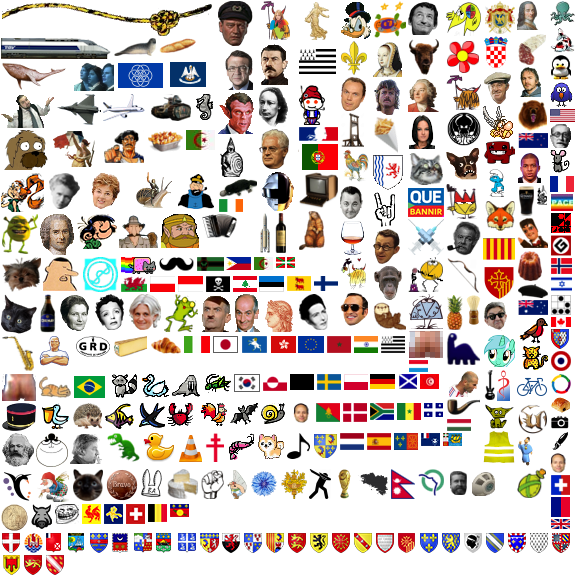
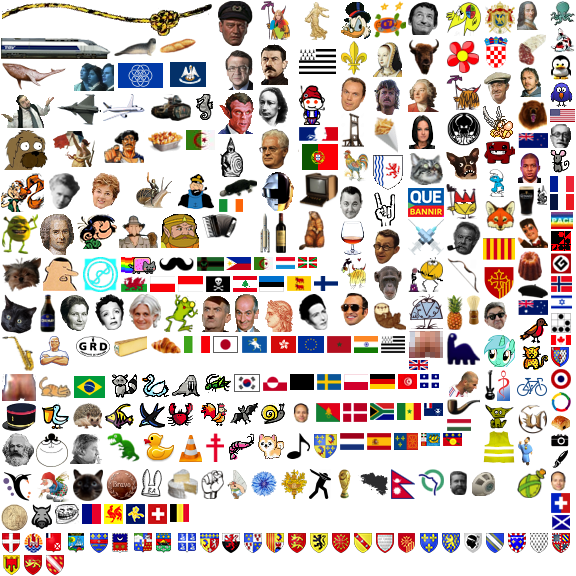
add missing DeFunes + edit France + add old France

diff --git a/flairs.css b/flairs.css
@@ -20,38 +20,39 @@
 .flair-NPDC { background-position: -308px -532px; width: 22px; height: 22px; }
 .flair-Normandie { background-position: -286px -532px; width: 22px; height: 22px; }
 .flair-PACA { background-position: -264px -532px; width: 22px; height: 22px; }
-.flair-PDL { background-position: -549px -328px; width: 24px; height: 22px; }
+.flair-PDL { background-position: -549px -346px; width: 24px; height: 22px; }
 .flair-Picardie { background-position: -242px -532px; width: 22px; height: 22px; }
 .flair-Picsou { background-position: -339px 0; width: 33px; height: 40px; }
 .flair-Poitou { background-position: -220px -532px; width: 22px; height: 22px; }
 .flair-Rhone { background-position: -198px -532px; width: 22px; height: 22px; }
 .flair-RoiHyrule { background-position: -160px -213px; width: 40px; height: 36px; }
-.flair-S971 { background-position: -168px -503px; width: 22px; height: 15px; }
+.flair-S971 { background-position: -441px -432px; width: 22px; height: 15px; }
 .flair-S972 { background-position: -176px -532px; width: 22px; height: 22px; }
 .flair-S973 { background-position: -154px -532px; width: 22px; height: 22px; }
 .flair-S974 { background-position: -132px -532px; width: 22px; height: 22px; }
 .flair-S976 { background-position: -110px -532px; width: 22px; height: 22px; }
-.flair-T975 { background-position: -441px -432px; width: 22px; height: 15px; }
+.flair-T975 { background-position: -419px -432px; width: 22px; height: 15px; }
 .flair-T977 { background-position: -88px -532px; width: 22px; height: 22px; }
 .flair-T978 { background-position: -66px -532px; width: 22px; height: 22px; }
 .flair-T986 { background-position: -44px -532px; width: 22px; height: 22px; }
 .flair-T987 { background-position: -22px -532px; width: 22px; height: 22px; }
 .flair-T988 { background-position: -535px -184px; width: 13px; height: 22px; }
-.flair-TAAF { background-position: -419px -432px; width: 22px; height: 15px; }
+.flair-TAAF { background-position: -422px -402px; width: 22px; height: 15px; }
 .flair-UFCQueBannir { background-position: -407px -187px; width: 38px; height: 31px; }
-.flair-YAFrance { background-position: -549px -175px; width: 26px; height: 18px; }
-.flair-YEuskadi { background-position: -274px -256px; width: 22px; height: 13px; }
+.flair-YAFrance { background-position: -549px -193px; width: 26px; height: 18px; }
+.flair-YAFranceVGE { background-position: -549px -175px; width: 26px; height: 18px; }
+.flair-YEuskadi { background-position: -296px -256px; width: 22px; height: 13px; }
 .flair-YSavoie { background-position: 0 -532px; width: 22px; height: 22px; }
-.flair-ZAFrancophonie { background-position: -549px -373px; width: 23px; height: 22px; }
-.flair-ZBBelgique { background-position: -146px -503px; width: 22px; height: 20px; }
+.flair-ZAFrancophonie { background-position: -549px -391px; width: 23px; height: 22px; }
+.flair-ZBBelgique { background-position: -168px -503px; width: 22px; height: 20px; }
 .flair-ZBSVUE { background-position: -297px -335px; width: 28px; height: 19px; }
-.flair-ZBSuisse { background-position: -124px -503px; width: 22px; height: 22px; }
-.flair-ZBTLuxembourg { background-position: -407px -359px; width: 22px; height: 14px; }
-.flair-ZBTQuebec { background-position: -422px -402px; width: 22px; height: 16px; }
-.flair-ZBelbru { background-position: -102px -503px; width: 22px; height: 22px; }
-.flair-ZBelwal { background-position: -80px -503px; width: 22px; height: 22px; }
-.flair-ZCanada { background-position: -549px -316px; width: 24px; height: 12px; }
-.flair-ZUK { background-position: -549px -518px; width: 22px; height: 12px; }
+.flair-ZBSuisse { background-position: -146px -503px; width: 22px; height: 22px; }
+.flair-ZBTLuxembourg { background-position: -274px -256px; width: 22px; height: 14px; }
+.flair-ZBTQuebec { background-position: -418px -373px; width: 22px; height: 16px; }
+.flair-ZBelbru { background-position: -124px -503px; width: 22px; height: 22px; }
+.flair-ZBelwal { background-position: -102px -503px; width: 22px; height: 22px; }
+.flair-ZCanada { background-position: -549px -334px; width: 24px; height: 12px; }
+.flair-ZUK { background-position: -407px -359px; width: 22px; height: 12px; }
 .flair-ZUS { background-position: -549px -108px; width: 27px; height: 15px; }
 .flair-ZZChaton { background-position: 0 -293px; width: 38px; height: 42px; }
 .flair-ZZZZZZbaguette { background-position: -157px -37px; width: 40px; height: 19px; }
@@ -70,7 +71,7 @@
 .flair-ZZZZZZdinosaure2 { background-position: -105px -432px; width: 36px; height: 31px; }
 .flair-ZZZZZZescargot { background-position: -259px -402px; width: 28px; height: 24px; }
 .flair-ZZZZZZguepard { background-position: -516px -345px; width: 33px; height: 26px; }
-.flair-ZZZZZZhacker { background-position: -549px -294px; width: 24px; height: 22px; }
+.flair-ZZZZZZhacker { background-position: -549px -312px; width: 24px; height: 22px; }
 .flair-ZZZZZZhippocampe { background-position: -193px -93px; width: 21px; height: 29px; }
 .flair-ZZZZZZhirondelle { background-position: -135px -402px; width: 31px; height: 27px; }
 .flair-ZZZZZZmorse { background-position: -170px -373px; width: 31px; height: 25px; }
@@ -84,28 +85,28 @@
 .flair-ZZZZZZratonlaveur { background-position: -106px -373px; width: 32px; height: 26px; }
 .flair-ZZZZZZsouris { background-position: -549px -149px; width: 24px; height: 26px; }
 .flair-ZZZZZZvin { background-position: -273px -212px; width: 14px; height: 42px; }
-.flair-ZZZZZpace { background-position: -549px -193px; width: 25px; height: 19px; }
+.flair-ZZZZZpace { background-position: -549px -211px; width: 25px; height: 19px; }
 .flair-ZZZZZtroll { background-position: -53px -503px; width: 27px; height: 22px; }
 .flair-ZZZZalgU00e9rie { background-position: -184px -129px; width: 32px; height: 22px; }
 .flair-ZZZZalgerie { background-position: -252px -256px; width: 22px; height: 15px; }
 .flair-ZZZZphilippines { background-position: -225px -256px; width: 27px; height: 15px; }
-.flair-ZZZZtunisie { background-position: -418px -373px; width: 22px; height: 17px; }
+.flair-ZZZZtunisie { background-position: -396px -373px; width: 22px; height: 17px; }
 .flair-ZZsanglier { background-position: -29px -503px; width: 24px; height: 27px; }
 .flair-Zallemagne { background-position: -369px -373px; width: 27px; height: 17px; }
 .flair-Zbelleile { background-position: -392px -432px; width: 27px; height: 19px; }
 .flair-Zcoree { background-position: -232px -373px; width: 29px; height: 20px; }
 .flair-Zcornouaille { background-position: -240px -335px; width: 29px; height: 19px; }
-.flair-Zecosse { background-position: -396px -373px; width: 22px; height: 17px; }
+.flair-Zecosse { background-position: -549px -514px; width: 22px; height: 17px; }
 .flair-Zespagne { background-position: -365px -432px; width: 27px; height: 19px; }
 .flair-Zfinlande { background-position: -312px -275px; width: 27px; height: 17px; }
 .flair-Zhongrie { background-position: -445px -418px; width: 27px; height: 14px; }
 .flair-Zirlande { background-position: -217px -198px; width: 27px; height: 15px; }
-.flair-Zisrael { background-position: -549px -275px; width: 24px; height: 19px; }
+.flair-Zisrael { background-position: -549px -293px; width: 24px; height: 19px; }
 .flair-Zjapon { background-position: -211px -335px; width: 29px; height: 19px; }
 .flair-Zlatverie { background-position: -195px -256px; width: 30px; height: 16px; }
 .flair-Znepal { background-position: -389px -468px; width: 27px; height: 32px; }
-.flair-Znorvege { background-position: -549px -257px; width: 24px; height: 18px; }
-.flair-Zparis { background-position: -549px -496px; width: 22px; height: 22px; }
+.flair-Znorvege { background-position: -549px -275px; width: 24px; height: 18px; }
+.flair-Zparis { background-position: -80px -503px; width: 22px; height: 22px; }
 .flair-Zpaysbas { background-position: -338px -432px; width: 27px; height: 19px; }
 .flair-Zpaysdegalle { background-position: -119px -275px; width: 29px; height: 18px; }
 .flair-Zpologne { background-position: -342px -373px; width: 27px; height: 18px; }
@@ -148,7 +149,7 @@
 .flair-chimay { background-position: -38px -293px; width: 19px; height: 41px; }
 .flair-chocolat { background-position: -105px -468px; width: 34px; height: 34px; }
 .flair-chouffe { background-position: -35px -468px; width: 35px; height: 35px; }
-.flair-cocarde { background-position: -549px -350px; width: 23px; height: 23px; }
+.flair-cocarde { background-position: -549px -368px; width: 23px; height: 23px; }
 .flair-cognac { background-position: -339px -220px; width: 27px; height: 36px; }
 .flair-coluche { background-position: -339px -184px; width: 27px; height: 36px; }
 .flair-comte { background-position: -112px -335px; width: 36px; height: 23px; }
@@ -175,7 +176,7 @@
 .flair-fleur { background-position: -445px -37px; width: 36px; height: 37px; }
 .flair-fleurbleue { background-position: -248px -468px; width: 32px; height: 32px; }
 .flair-framasoft { background-position: 0 -468px; width: 35px; height: 35px; }
-.flair-francosuisse { background-position: -549px -474px; width: 22px; height: 22px; }
+.flair-francosuisse { background-position: -549px -492px; width: 22px; height: 22px; }
 .flair-frites { background-position: -372px -116px; width: 27px; height: 38px; }
 .flair-gabuzomeu { background-position: -445px 0; width: 37px; height: 37px; }
 .flair-gadget { background-position: -118px -213px; width: 42px; height: 36px; }
@@ -185,7 +186,7 @@
 .flair-giletjaune { background-position: -482px -430px; width: 34px; height: 34px; }
 .flair-gobelin { background-position: -482px -402px; width: 34px; height: 28px; }
 .flair-gojira { background-position: 0 -61px; width: 68px; height: 32px; }
-.flair-grammar { background-position: -549px -234px; width: 24px; height: 23px; }
+.flair-grammar { background-position: -549px -252px; width: 24px; height: 23px; }
 .flair-grd { background-position: -74px -335px; width: 38px; height: 23px; }
 .flair-grenouille { background-position: -162px -293px; width: 37px; height: 40px; }
 .flair-grnx { background-position: -37px -373px; width: 35px; height: 29px; }
@@ -195,7 +196,7 @@
 .flair-guiness { background-position: -516px -184px; width: 19px; height: 33px; }
 .flair-guitare { background-position: -482px -368px; width: 14px; height: 34px; }
 .flair-gwennhadu { background-position: -379px -335px; width: 27px; height: 19px; }
-.flair-hacker2 { background-position: -549px -212px; width: 24px; height: 22px; }
+.flair-hacker2 { background-position: -549px -230px; width: 24px; height: 22px; }
 .flair-haddock { background-position: -177px -171px; width: 40px; height: 39px; }
 .flair-herisson { background-position: -71px -402px; width: 32px; height: 28px; }
 .flair-hk { background-position: -269px -335px; width: 28px; height: 19px; }
@@ -216,7 +217,7 @@
 .flair-liberte { background-position: -52px -129px; width: 50px; height: 39px; }
 .flair-licorne { background-position: -482px -334px; width: 34px; height: 34px; }
 .flair-lordon { background-position: -287px -402px; width: 27px; height: 22px; }
-.flair-lordonflou { background-position: -549px -452px; width: 18px; height: 22px; }
+.flair-lordonflou { background-position: -549px -470px; width: 18px; height: 22px; }
 .flair-louisemichel { background-position: -258px -86px; width: 32px; height: 42px; }
 .flair-louisiane { background-position: -165px -61px; width: 42px; height: 27px; }
 .flair-loutre { background-position: -372px -301px; width: 35px; height: 31px; }
@@ -246,11 +247,11 @@
 .flair-otarie { background-position: -112px -37px; width: 45px; height: 21px; }
 .flair-ours { background-position: -516px -99px; width: 32px; height: 33px; }
 .flair-pascalbrutal { background-position: -42px -256px; width: 39px; height: 37px; }
-.flair-peinture { background-position: -549px -430px; width: 20px; height: 22px; }
+.flair-peinture { background-position: -549px -448px; width: 20px; height: 22px; }
 .flair-penelope { background-position: -127px -293px; width: 35px; height: 40px; }
 .flair-perceval { background-position: -516px -66px; width: 26px; height: 33px; }
 .flair-philippe { background-position: -372px -78px; width: 29px; height: 38px; }
-.flair-photo { background-position: -549px -414px; width: 22px; height: 16px; }
+.flair-photo { background-position: -549px -432px; width: 22px; height: 16px; }
 .flair-piaf { background-position: -92px -293px; width: 35px; height: 40px; }
 .flair-pipe { background-position: -445px -398px; width: 36px; height: 20px; }
 .flair-pirate { background-position: -204px -275px; width: 27px; height: 18px; }
@@ -286,6 +287,6 @@
 .flair-ut { background-position: -516px -403px; width: 32px; height: 32px; }
 .flair-veil { background-position: -57px -293px; width: 35px; height: 40px; }
 .flair-velo { background-position: -516px -371px; width: 32px; height: 32px; }
-.flair-viennoiserie { background-position: -549px -395px; width: 22px; height: 19px; }
+.flair-viennoiserie { background-position: -549px -413px; width: 22px; height: 19px; }
 .flair-vlc { background-position: -175px -432px; width: 28px; height: 31px; }
 .flair-voltaire { background-position: -516px 0; width: 33px; height: 33px; }
